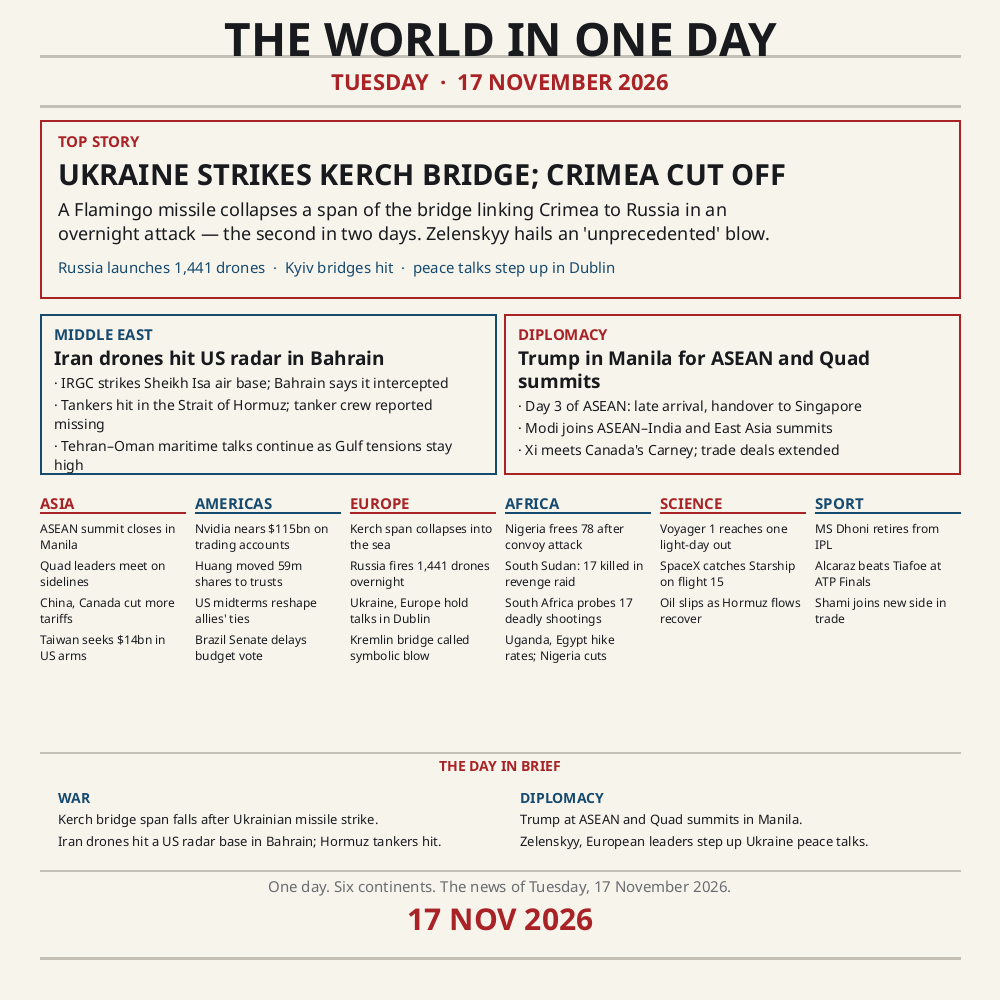
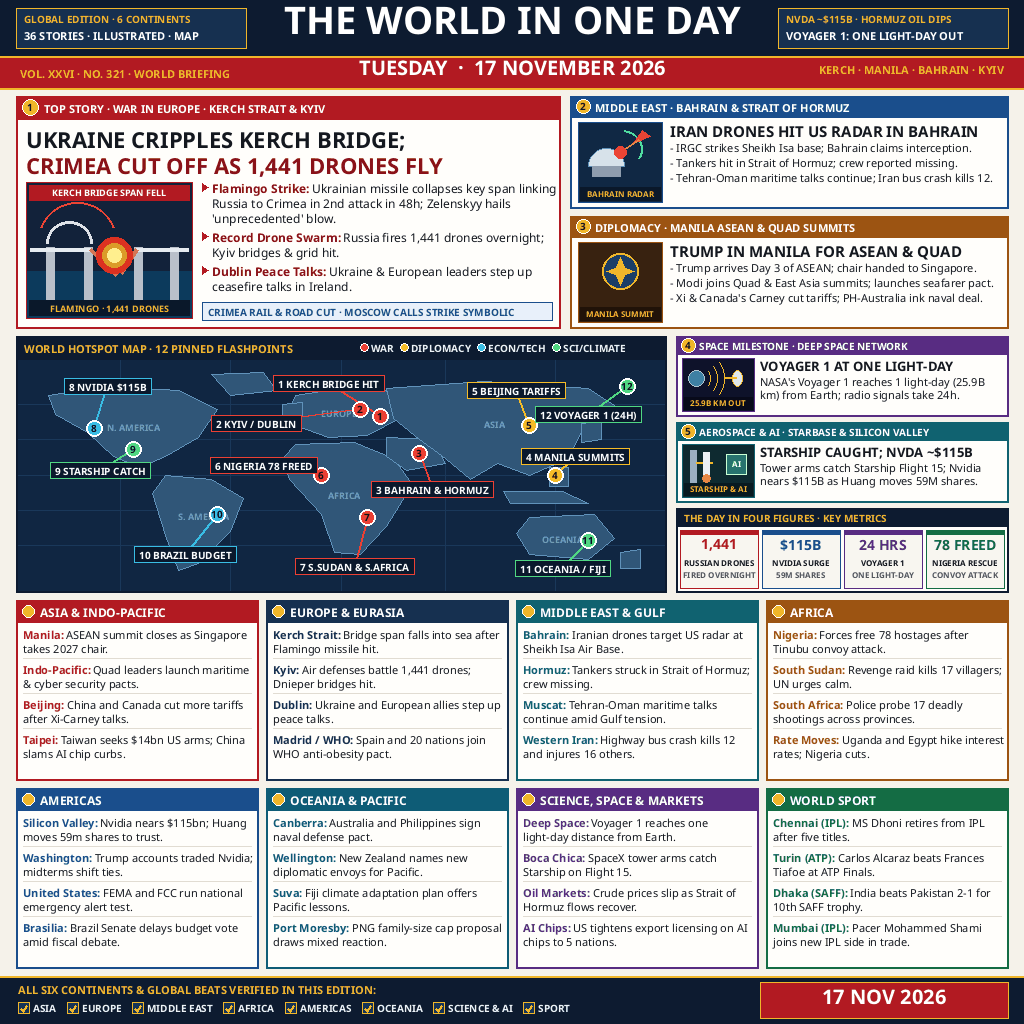
rework v2: illustrated 1024px front page, world map, 36 stories

diff --git a/README.md b/README.md
@@ -4,7 +4,7 @@
 [![rank](https://make.fun/badge/news-image-20261117/eyan7h/news-image-20261117-frontpage/rank.svg)](https://make.fun/bounty/news-image-20261117/leaderboard?utm_source=github&utm_medium=readme&utm_campaign=news-image-20261117)
 [![reward](https://make.fun/badge/news-image-20261117/eyan7h/news-image-20261117-frontpage/reward.svg)](https://make.fun/bounty/news-image-20261117?utm_source=github&utm_medium=readme&utm_campaign=news-image-20261117)
 
-A one-page newspaper front page summing up the world news of Tuesday, 17 November 2026 — six continents, the day's consequential stories, and a clear date label. The image is drawn once by the agent and committed as `entry.png`; the entry program copies those exact bytes to the output path on each run.
+An illustrated 1024x1024 front page summing up the world news of Tuesday, 17 November 2026: 36 verified stories across all six continents, five vector illustrations (Kerch Bridge collapse, Bahrain radar strike, Manila ASEAN/Quad summits, Voyager 1 at one light-day, and SpaceX Starship Flight 15), a 12-pin global hotspot map, and the day in four figures. Drawn with PIL and committed as `entry.png`; `main.py` copies those exact bytes deterministically on each grading run.
 
 ## Run it
 
